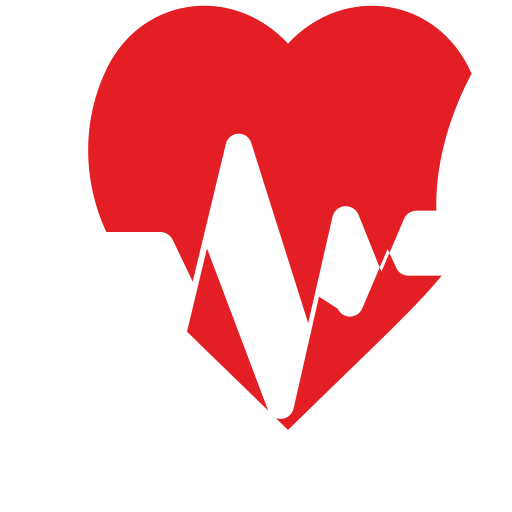
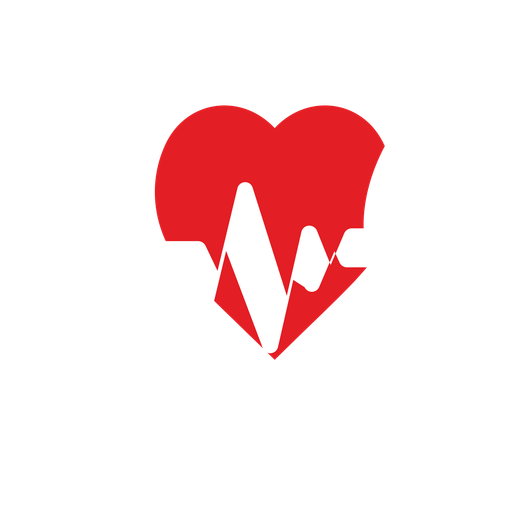
Use precise source PNG, add padding in generator, rebuild

Changed region(s): [[0.1562, 0.0, 0.9375, 0.8438]]

diff --git a/scripts/generate-icons.js b/scripts/generate-icons.js
@@ -12,31 +12,52 @@ async function ensureSharp() {
 }
 
 async function run() {
-	await ensureSharp();
-	const sharp = require('sharp');
-	const assetsDir = path.join(process.cwd(), 'assets');
-	if (!fs.existsSync(assetsDir)) fs.mkdirSync(assetsDir);
+    await ensureSharp();
+    const sharp = require('sharp');
+    const assetsDir = path.join(process.cwd(), 'assets');
+    if (!fs.existsSync(assetsDir)) fs.mkdirSync(assetsDir);
 
-	const svgPath = path.join(assetsDir, 'heart.svg');
-	if (!fs.existsSync(svgPath)) {
-		console.error('Missing assets/heart.svg. Add your SVG icon to proceed.');
-		process.exit(1);
-	}
+    // Prefer an exact source PNG if provided by the user
+    const pngSource = path.join(assetsDir, 'source-icon.png');
+    const svgFallback = path.join(assetsDir, 'heart.svg');
+    const sourcePath = fs.existsSync(pngSource) ? pngSource : svgFallback;
+    if (!fs.existsSync(sourcePath)) {
+        console.error('Missing assets/source-icon.png or assets/heart.svg');
+        process.exit(1);
+    }
 
-	const outputs = [
-		{ file: 'apple-touch-icon.png', size: 180 },
-		{ file: 'icon-192.png', size: 192 },
-		{ file: 'icon-512.png', size: 512 }
-	];
+    const outputs = [
+        { file: 'apple-touch-icon.png', size: 180 },
+        { file: 'icon-192.png', size: 192 },
+        { file: 'icon-512.png', size: 512 }
+    ];
 
-	for (const { file, size } of outputs) {
-		const outPath = path.join(assetsDir, file);
-		await sharp(svgPath)
-			.resize(size, size, { fit: 'contain', background: { r: 0, g: 0, b: 0, alpha: 0 } })
-			.png()
-			.toFile(outPath);
-		console.log(`Generated ${file}`);
-	}
+    // Add generous safe-area padding so iOS rounded mask does not clip artwork
+    const paddingRatio = 0.20; // 20% outer margin
+
+    for (const { file, size } of outputs) {
+        const outPath = path.join(assetsDir, file);
+        const inner = Math.round(size * (1 - paddingRatio * 2));
+
+        const base = sharp({
+            create: {
+                width: size,
+                height: size,
+                channels: 4,
+                background: { r: 0, g: 0, b: 0, alpha: 0 }
+            }
+        }).png();
+
+        const raster = await sharp(sourcePath)
+            .resize(inner, inner, { fit: 'contain', background: { r: 0, g: 0, b: 0, alpha: 0 } })
+            .png()
+            .toBuffer();
+
+        await base
+            .composite([{ input: raster, left: Math.round(size * paddingRatio), top: Math.round(size * paddingRatio) }])
+            .toFile(outPath);
+        console.log(`Generated ${file}`);
+    }
 }
 
 run().catch((e) => {

diff --git a/scripts/create-source-icon.js b/scripts/create-source-icon.js
@@ -1,0 +1,24 @@
+const fs = require('fs');
+const path = require('path');
+
+async function run() {
+	const svgPath = path.join(process.cwd(), 'assets', 'heart.svg');
+	const outPath = path.join(process.cwd(), 'assets', 'source-icon.png');
+	if (!fs.existsSync(svgPath)) {
+		console.error('Missing assets/heart.svg');
+		process.exit(1);
+	}
+	const sharp = require('sharp');
+	await sharp(svgPath)
+		.resize(1024, 1024, { fit: 'contain', background: { r: 0, g: 0, b: 0, alpha: 0 } })
+		.png()
+		.toFile(outPath);
+	console.log('Created assets/source-icon.png');
+}
+
+run().catch((e) => {
+	console.error(e);
+	process.exit(1);
+});
+
+
